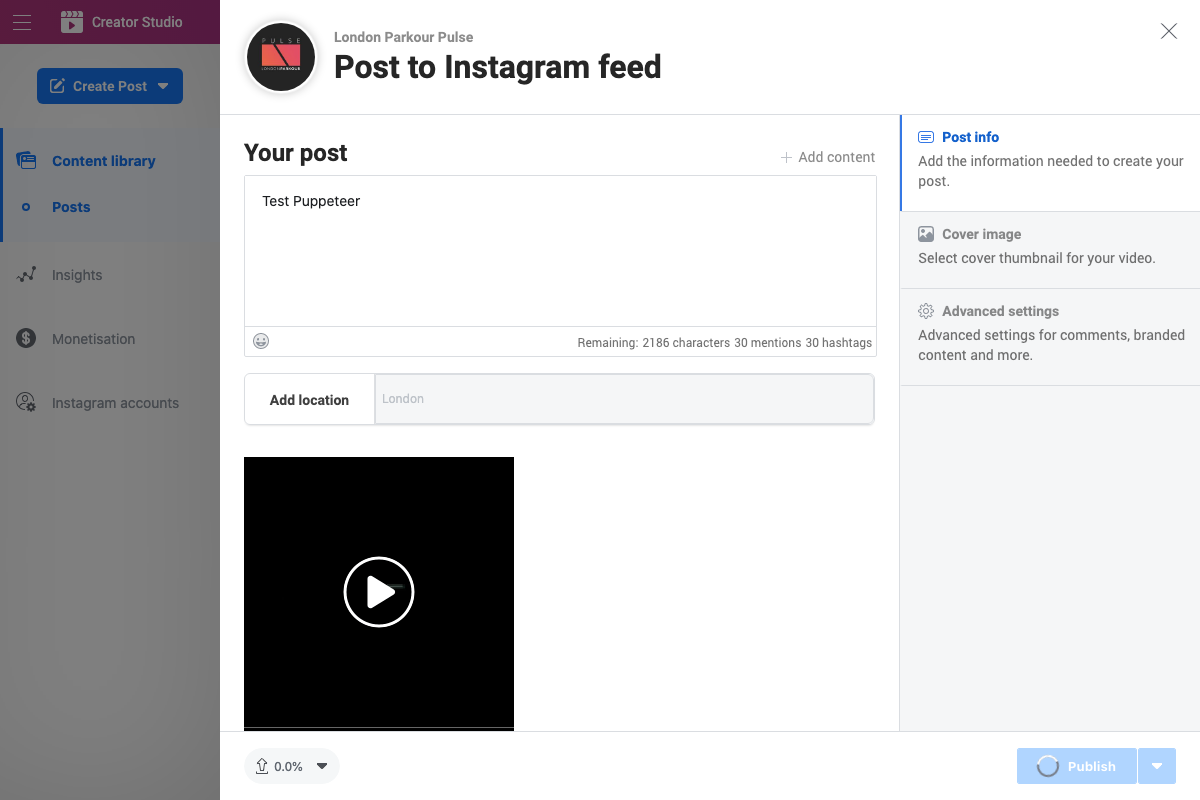
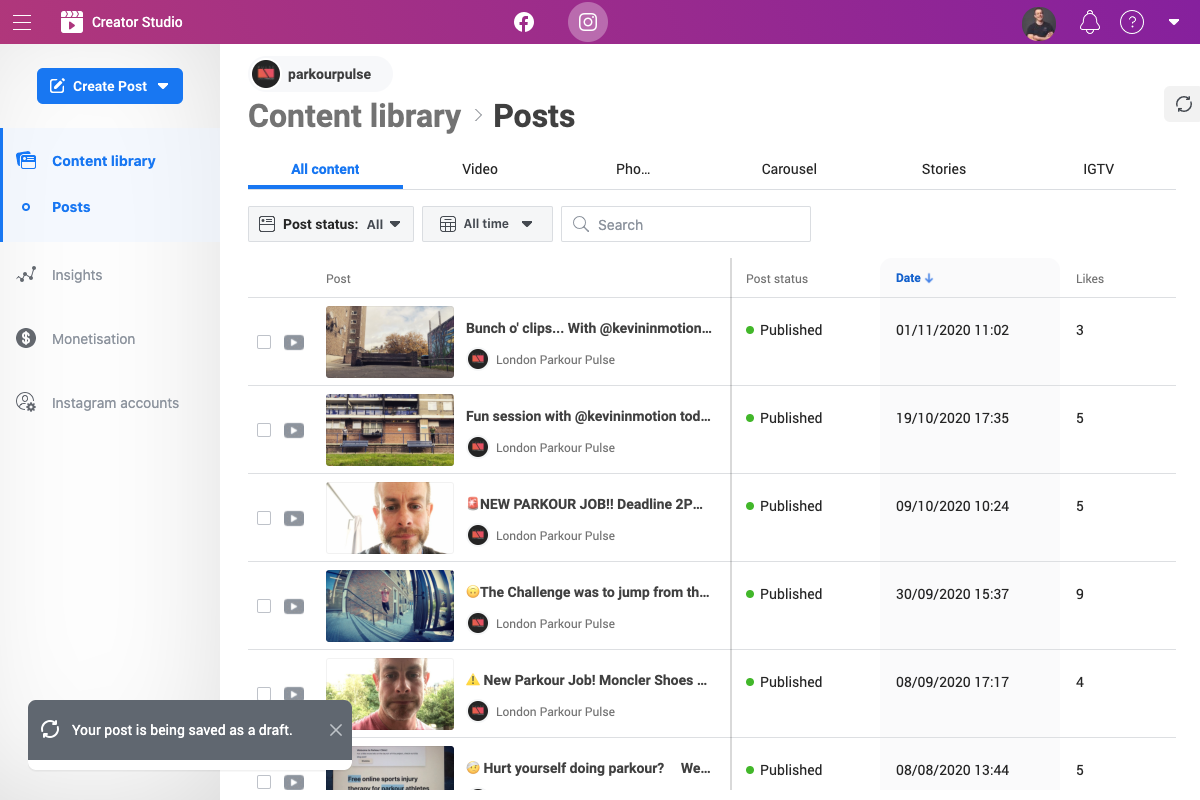
Base complete

diff --git a/creator_studio.js b/creator_studio.js
@@ -525,60 +525,6 @@ var creator_studio = (function () {
 
 
 
-            /**
-             * Skip if Cover image is empty.
-             */
-            if ('' !== IG_post.cover){
-
-
-                /**
-                 * Change Cover Image
-                 */
-                try {
-                    console.log('Selecting Cover Image');
-                    await page.waitForXPath(selector.xpath_cover_image);
-                    const [cover_image] = await page.$x(selector.xpath_cover_image);
-                    await cover_image.click();
-                } catch (err) {
-                    console.log('Error selecting the "cover image" sidebar : ' + err);
-                }
-
-
-
-
-                /**
-                 * Custom upload box
-                 */
-            
-                try {
-                    console.log('Click custom upload box');
-                    await page.waitForXPath(selector.xpath_custom_upload);
-                    const [custom_upload] = await page.$x(selector.xpath_custom_upload);
-                    await custom_upload.click();
-                } catch (err) {
-                    console.log('Error clicking the "custom upload" box : ' + err);
-                }
-
-
-
-
-                /**
-                 * Click "Add Image" within custom upload.
-                 */
-            
-                try {
-                    console.log('Click "add image"');
-                    await page.waitForSelector(selector.input_add_image);
-                    const fileInput = await page.$(selector.input_add_image);
-                    await fileInput.uploadFile(IG_post.cover);
-                } catch (err) {
-                    console.log('Error clicking the "Add Image" button : ' + err);
-                }
-            }
-
-
-
-
 
             /**
              * Cross-post to facebook page
@@ -593,6 +539,8 @@ var creator_studio = (function () {
                 }
             }
 
+
+            
 
             /**
              * Schedule the facebook crossposts
@@ -651,6 +599,61 @@ var creator_studio = (function () {
 
 
             }
+
+
+
+
+            /**
+             * Skip if Cover image is empty.
+             */
+            if ('' !== IG_post.cover){
+
+
+                /**
+                 * Change Cover Image
+                 */
+                try {
+                    console.log('Selecting Cover Image');
+                    await page.waitForXPath(selector.xpath_cover_image);
+                    const [cover_image] = await page.$x(selector.xpath_cover_image);
+                    await cover_image.click();
+                } catch (err) {
+                    console.log('Error selecting the "cover image" sidebar : ' + err);
+                }
+
+
+
+
+                /**
+                 * Custom upload box
+                 */
+            
+                try {
+                    console.log('Click custom upload box');
+                    await page.waitForXPath(selector.xpath_custom_upload);
+                    const [custom_upload] = await page.$x(selector.xpath_custom_upload);
+                    await custom_upload.click();
+                } catch (err) {
+                    console.log('Error clicking the "custom upload" box : ' + err);
+                }
+
+
+
+
+                /**
+                 * Click "Add Image" within custom upload.
+                 */
+            
+                try {
+                    console.log('Click "add image"');
+                    await page.waitForSelector(selector.input_add_image);
+                    const fileInput = await page.$(selector.input_add_image);
+                    await fileInput.uploadFile(IG_post.cover);
+                } catch (err) {
+                    console.log('Error clicking the "Add Image" button : ' + err);
+                }
+            }
+
 
 
 

diff --git a/server.js b/server.js
@@ -32,6 +32,7 @@ app.use(body_parser.json());
  */
 app.post('/', (req, res) => {   
 
+
     /**
      * Check that the APIKEY is set and equal
      * to the configured one in auth.json file.
@@ -41,44 +42,86 @@ app.post('/', (req, res) => {
         return;
     }
 
-    if (!req.body.user){
+
+    // Set your facebook username
+    if (req.body.user){     
+        cs.creator_studio.user(req.body.user);
+    } else {
         res.send('Please supply a username');
         return;
     }
 
-    if (!req.body.pass){
+
+    // Set your facebook password
+    if (req.body.pass){
+        cs.creator_studio.pass(req.body.pass);
+    } else {
         res.send('Please supply a password');
         return;
     }
 
-    if (!req.body.video){
+
+    // Video filename
+    if (req.body.video){
+        cs.creator_studio.IG_post.video = '/usr/src/app/videos/' + req.body.video;
+    } else {
         res.send('Please supply a video file');
         return;
     }
 
-    if (!req.body.cookies){
+
+    // Set the cookie file locations
+    if (req.body.cookies){
+        cs.creator_studio.cookies('/usr/src/app/cookies/' + req.body.cookies);
+    } else {
         res.send('Please supply a cookie file');
         return;
     }
 
-    cs.creator_studio.settings({ 
-        headless: true, 
-        devtools: false,    
-        executablePath: "/usr/bin/google-chrome-stable",
-        args: ['--no-sandbox']
-    });
+
+    /**
+     * All optional parameters
+     */
+    if (req.body.caption){
+        cs.creator_studio.IG_post.caption = req.body.caption;
+    }
+
+    if (req.body.location){
+        cs.creator_studio.IG_post.location = req.body.location;
+    }
+
+    if (req.body.date){
+        cs.creator_studio.IG_post.date = req.body.date;
+    }
+
+    if (req.body.time){
+        cs.creator_studio.IG_post.time = req.body.time;
+    }
+
+    if (req.body.cover){
+        cs.creator_studio.IG_post.cover = '/usr/src/app/images/' + req.body.cover;
+    }
+
+    if (req.body.crosspost){
+        cs.creator_studio.IG_post.crosspost = req.body.crosspost;
+    }
+
+    /**
+     * Set the puppeteer settings
+     */
+    if (req.body.settings){
+        cs.creator_studio.settings(req.body.settings);
+    } else {
+        cs.creator_studio.settings({ 
+            headless: true, 
+            devtools: false,    
+            executablePath: "/usr/bin/google-chrome-stable",
+            args: ['--no-sandbox']
+        });
+    }    
     
-    // Set your facebook username
-    cs.creator_studio.user(req.body.user);
     
-    // Set your facebook password   
-    cs.creator_studio.pass(req.body.pass);
     
-    // Set the cookie file locations
-    cs.creator_studio.cookies('/usr/src/app/cookies/' + req.body.cookies);
-    
-    // Required Args
-    cs.creator_studio.IG_post.video = '/usr/src/app/videos/' + req.body.video;
 
     // Run, you fools!  
     cs.creator_studio.run();

diff --git a/cli.js b/cli.js
@@ -38,7 +38,7 @@ const cs  = require ('./creator_studio.js');
 // Use to update the executablePath of the Chromium location you downloaded
 // with the media codecs included.
 cs.creator_studio.settings({ 
-    headless: true, 
+    headless: false, 
     devtools: false,    
     // executablePath: "/usr/bin/google-chrome-stable",
     executablePath: "/Users/andrewpearson/Storage/Code/_Small_Experiments/test_puphpeteer/Chromium.app/Contents/MacOS/Chromium",

diff --git a/video_download.js b/video_download.js
@@ -41,7 +41,7 @@ var video_downloader = (function () {
             const request = proto.get(url, response => {
                 
                 if (response.statusCode !== 200) {
-                    reject(new Error(`Failed to get '${url}' (${response.statusCode})`));
+                    console.log('Failed to download URL. Code:'  + response.statusCode);
                     return;
                 }
 
